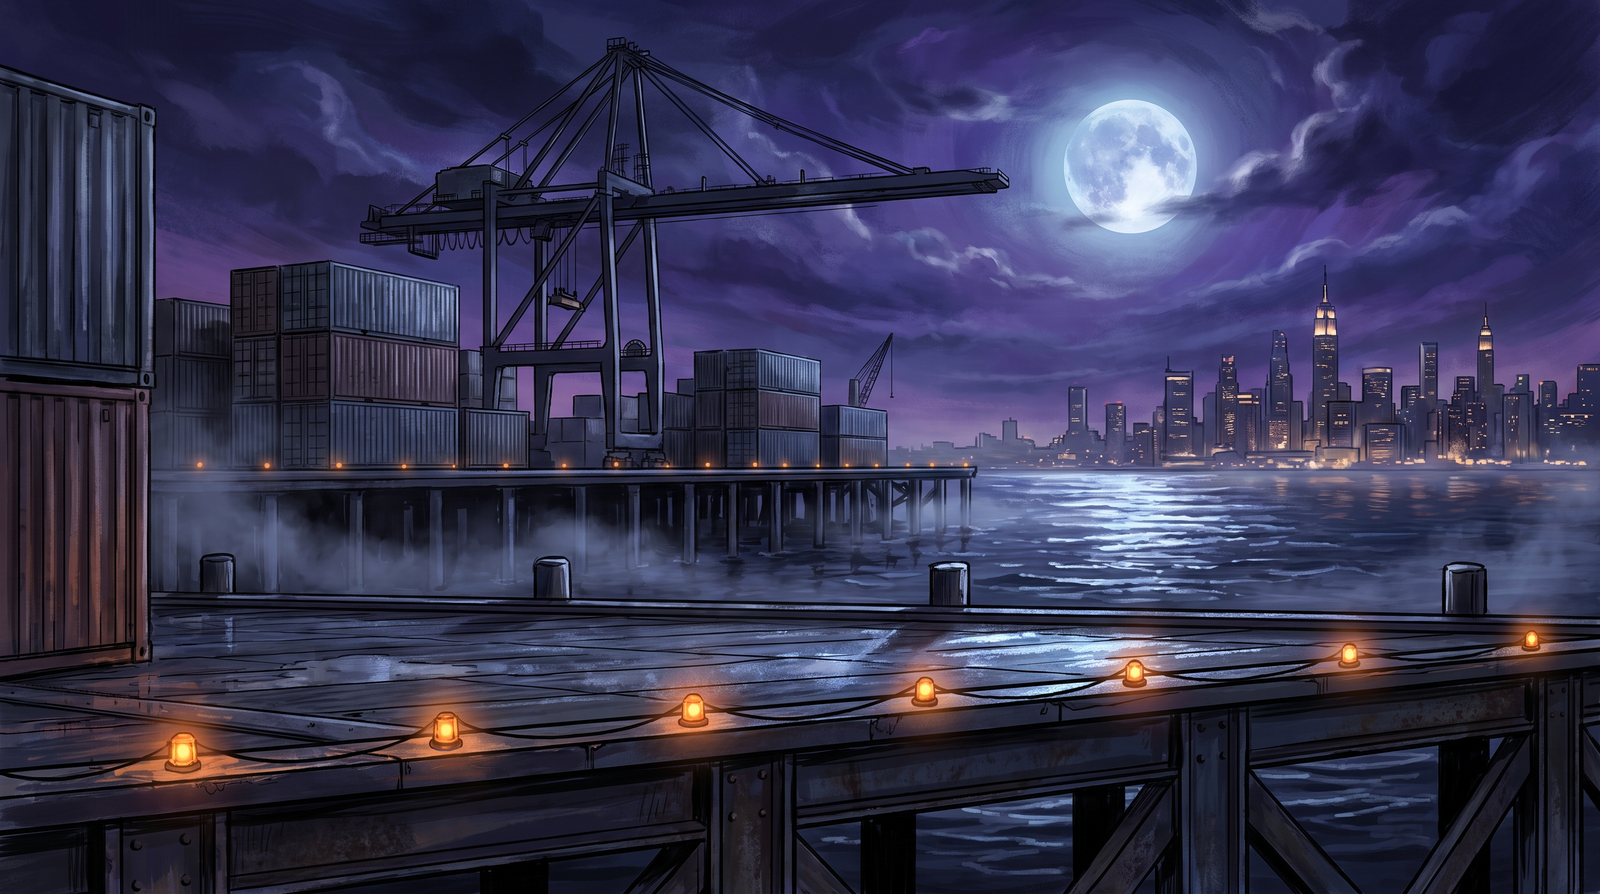
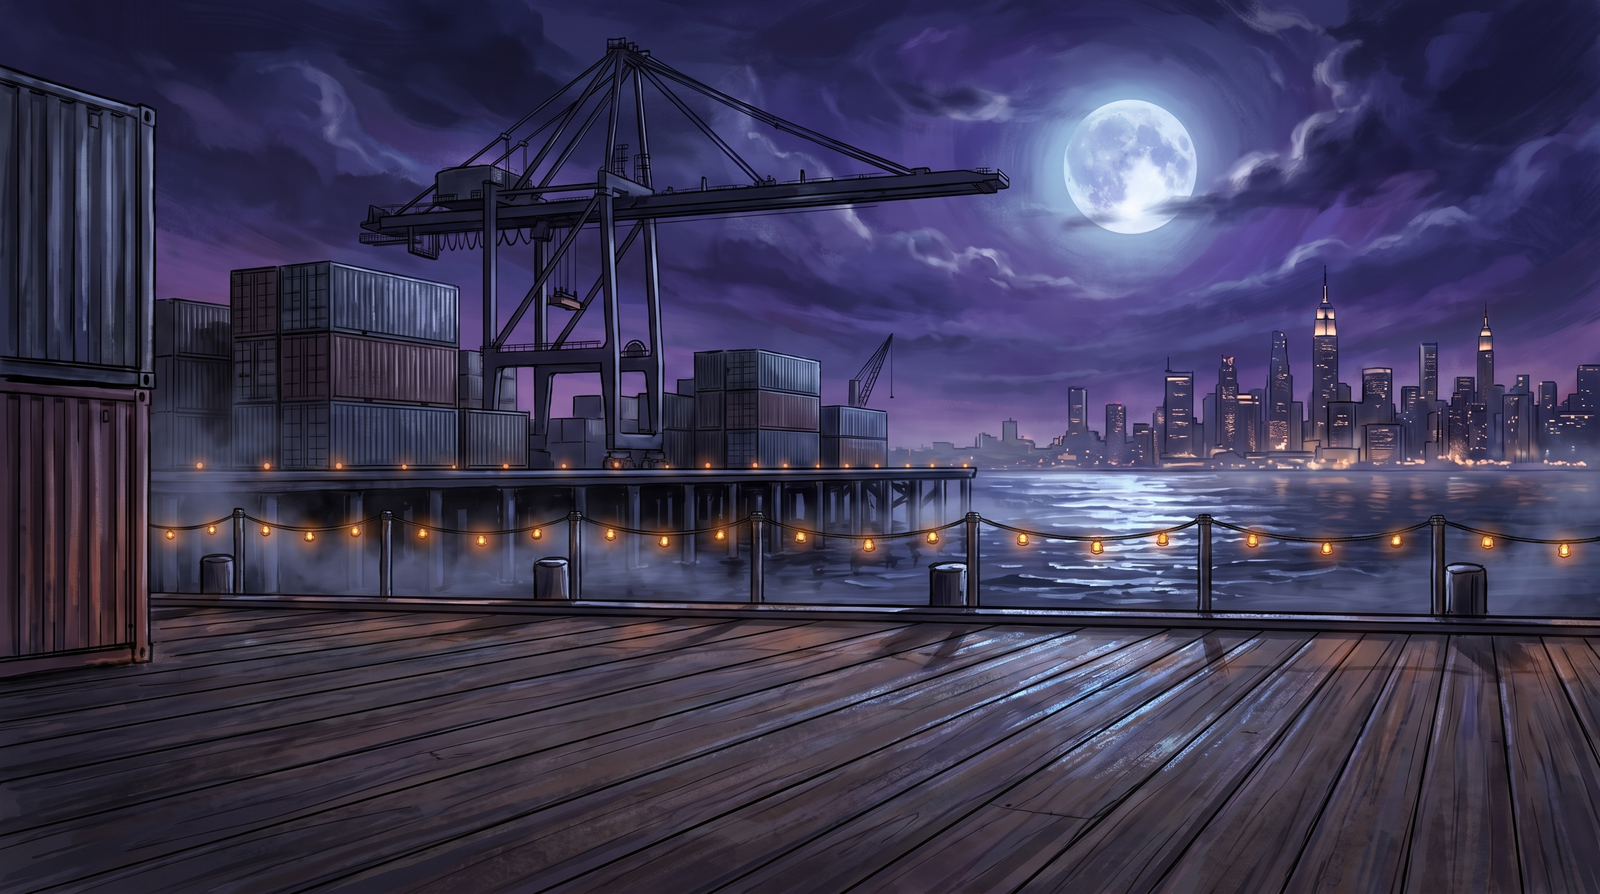
Track B: edit Sewer/Warehouse/Docks art to fix floor obstructions
The 3 stages that couldn't be fixed with the zoom/pan approach (their
obstructions were too deep/structural to crop around) -- originals backed
up in art/archive/pre-track-b-backgrounds/ in the previous commit.

Each edited via generate_image_edit (nano-banana-pro/edit) with a targeted
instruction to fix only the floor issue and keep everything else (mood,
lighting, other props) unchanged:
- Sewer: the center water channel that split the walkway into two islands
  is now a continuous flat floor across the full width.
- Warehouse: the pallets/cable coil that intruded deep into both edges are
  now pushed to the margins and shrunk.
- Docks: the deck used to physically narrow away near the right edge (no
  floor pixels past a point, just open under-pier bracing over water) --
  it now spans the full frame width, and the rope-and-lantern guard rail
  was moved up/back out of the walkable band.

groundYFrac re-tuned for all 3 (converged on 0.89 for all three, though
tuned independently) and re-verified the same way as every other
floor-alignment fix this session: composited the actual player sprite
onto the actual new art at both play-area edges AND center before
committing to a number, not just center (the gap that let the original
bug ship).

Verified: clean build (all 3 new PNGs bundled, confirmed via grep since
verbose build output truncates), syntax-checked stages.js, 6 edge
composite checks + 3 center composite checks all show clean floor
placement with zero obstruction.
[…]

diff --git a/TmntSkateSlice/src/data/stages.js b/TmntSkateSlice/src/data/stages.js
@@ -129,7 +129,12 @@ export const STAGES = [
     name: 'Sewer',
     bannerLabel: 'STAGE 5',
     bg: 'bg_sewer',
-    groundYFrac: 0.86,
+    // Art edited (2026-08-06, Track B, see art/archive/pre-track-b-backgrounds/
+    // for the original): the center water channel that used to split the
+    // walkway into two islands is now a continuous flat floor across the
+    // full width. groundYFrac re-tuned + re-verified at both edges (and
+    // center) via the same sprite-composite check as every other stage.
+    groundYFrac: 0.89, // was 0.86
     fallSpeedFrac: 0.33,
     spawnIntervalSec: 0.72,
     bombChance: 0.45,
@@ -155,6 +160,11 @@ export const STAGES = [
     name: 'Warehouse Rooftop',
     bannerLabel: 'STAGE 7',
     bg: 'bg_warehouse',
+    // Art edited (2026-08-06, Track B, see art/archive/pre-track-b-backgrounds/
+    // for the original): the pallets/cable coil that intruded deep into
+    // both edges are now pushed to the margins and shrunk. groundYFrac
+    // (0.89) already worked and needed no change -- re-verified at both
+    // edges via the same sprite-composite check as every other stage.
     groundYFrac: 0.89,
     fallSpeedFrac: 0.38,
     spawnIntervalSec: 0.58,
@@ -168,7 +178,14 @@ export const STAGES = [
     name: 'Docks',
     bannerLabel: 'STAGE 8',
     bg: 'bg_docks',
-    groundYFrac: 0.83,
+    // Art edited (2026-08-06, Track B, see art/archive/pre-track-b-backgrounds/
+    // for the original): the deck used to physically narrow away near the
+    // right edge (no floor pixels past a point, just open under-pier
+    // bracing over water); it now spans the full frame width, and the
+    // rope-and-lantern guard rail was moved up/back out of the walkable
+    // band. groundYFrac re-tuned + re-verified at both edges (and center)
+    // via the same sprite-composite check as every other stage.
+    groundYFrac: 0.89, // was 0.83
     fallSpeedFrac: 0.40,
     spawnIntervalSec: 0.52,
     bombChance: 0.50,
